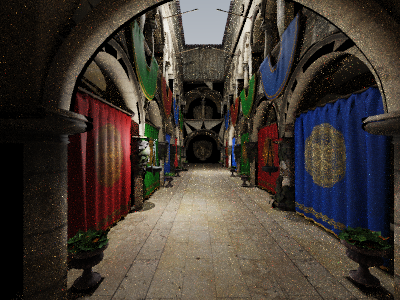
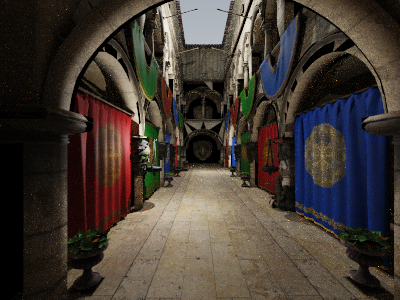
Sponza obj

diff --git a/Silmaril/src/Silmaril/Main.cpp b/Silmaril/src/Silmaril/Main.cpp
@@ -20,9 +20,9 @@ int main()
 {
     using namespace Silmaril;
 
-    u32 width = 1920;
-    u32 height = 1080;
-    u32 samples = 1024;
+    u32 width = 400;
+    u32 height = 300;
+    u32 samples = 64;
     u32 depth = 8;
 
     std::println("Initializing Scene...");
